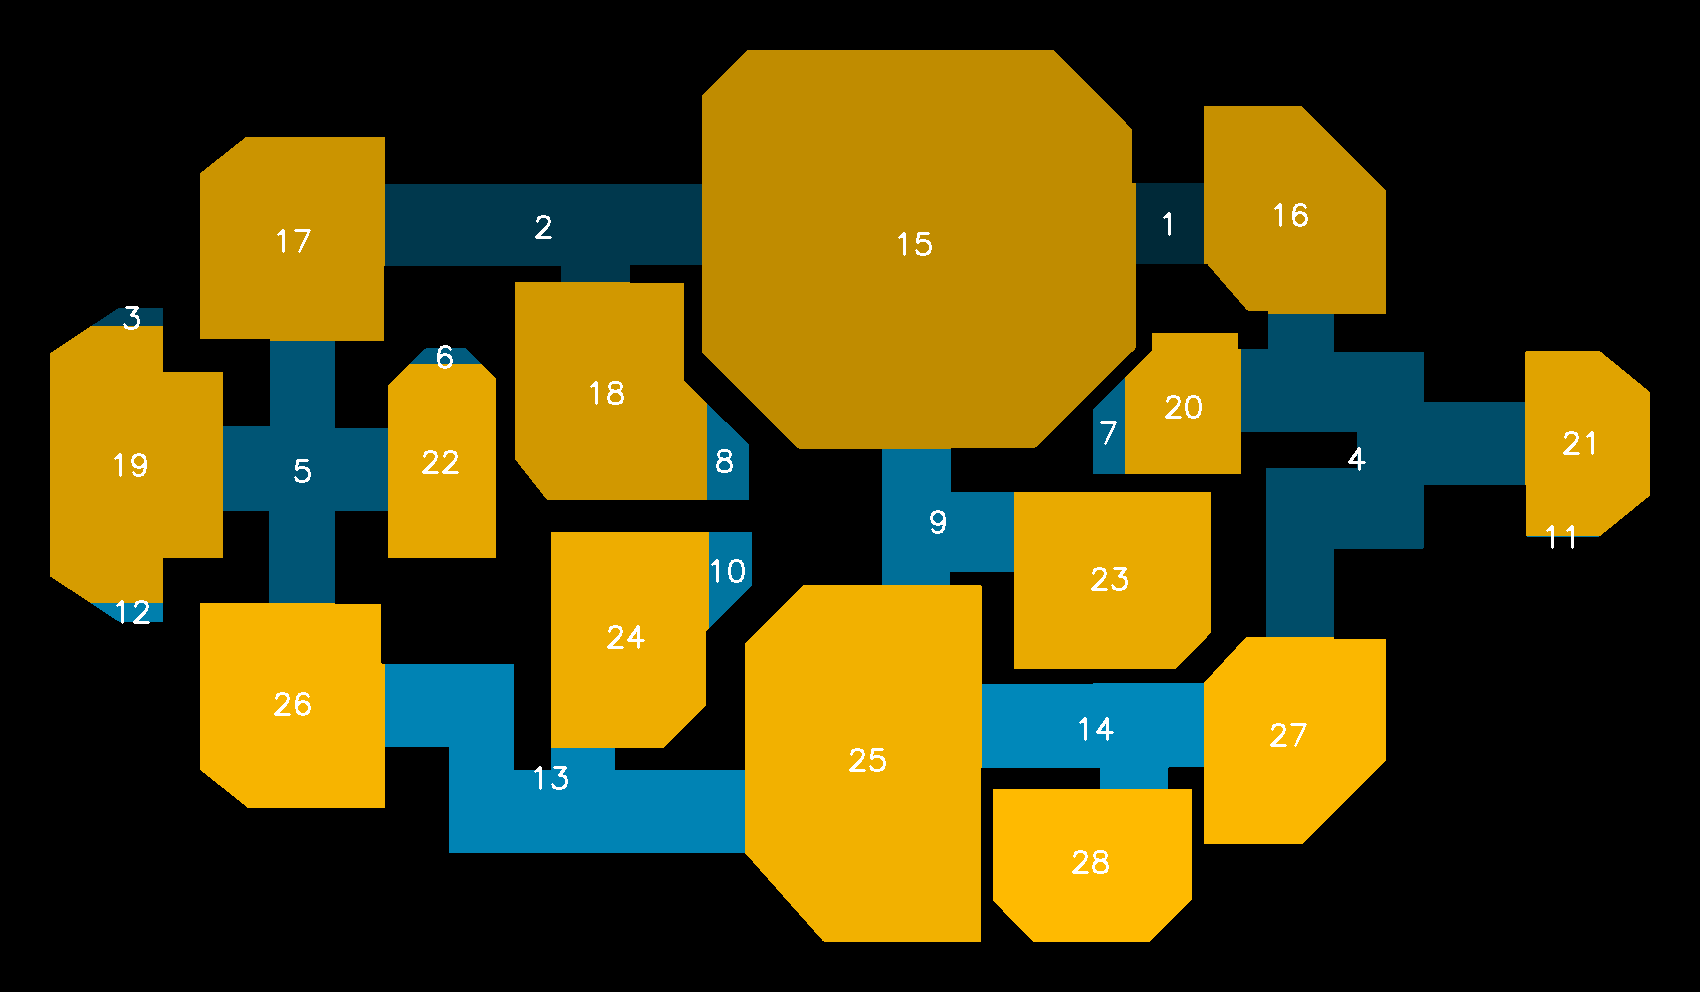
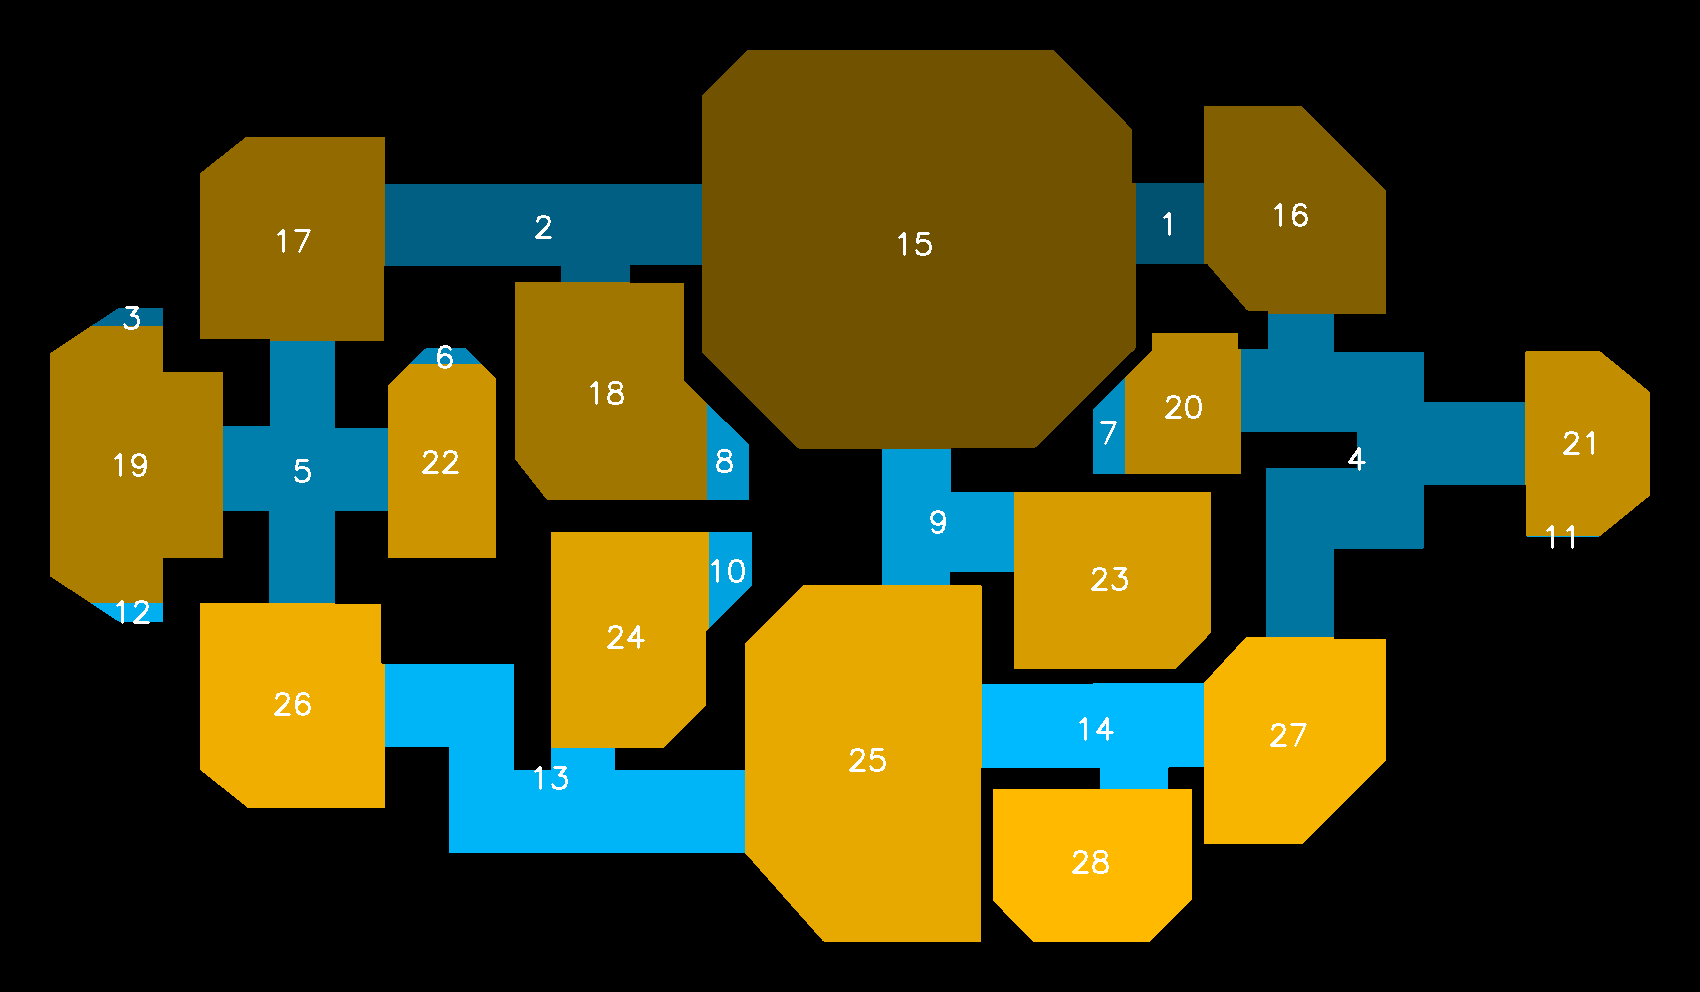
fix for color palette

diff --git a/floorgraph.py b/floorgraph.py
@@ -28,8 +28,13 @@ def draw_map(title="map"):
 		mask = (labels == label)
 
 		# 0 = blank, then corridor labels, then room labels
-		color = np.array([1.0, 0.5, 0.0]) if label <= numcorridors else np.array([0.0, 0.5, 1.0])
-		canvas[mask] = color * label / numlabels
+		labeltype = 0 if (1 <= label <= numcorridors) else 1
+
+		color = np.array([[1.0, 0.5, 0.0], [0.0, 0.5, 1.0]])[labeltype]
+
+		rellabel = [label, label - numcorridors][labeltype]
+		relrange = [numcorridors, numrooms][labeltype]
+		canvas[mask] = color * (0.1 + 0.9 * rellabel / relrange)
 
 		# calculate centroid from moments
 		m = cv.moments(mask.astype(np.uint8))
